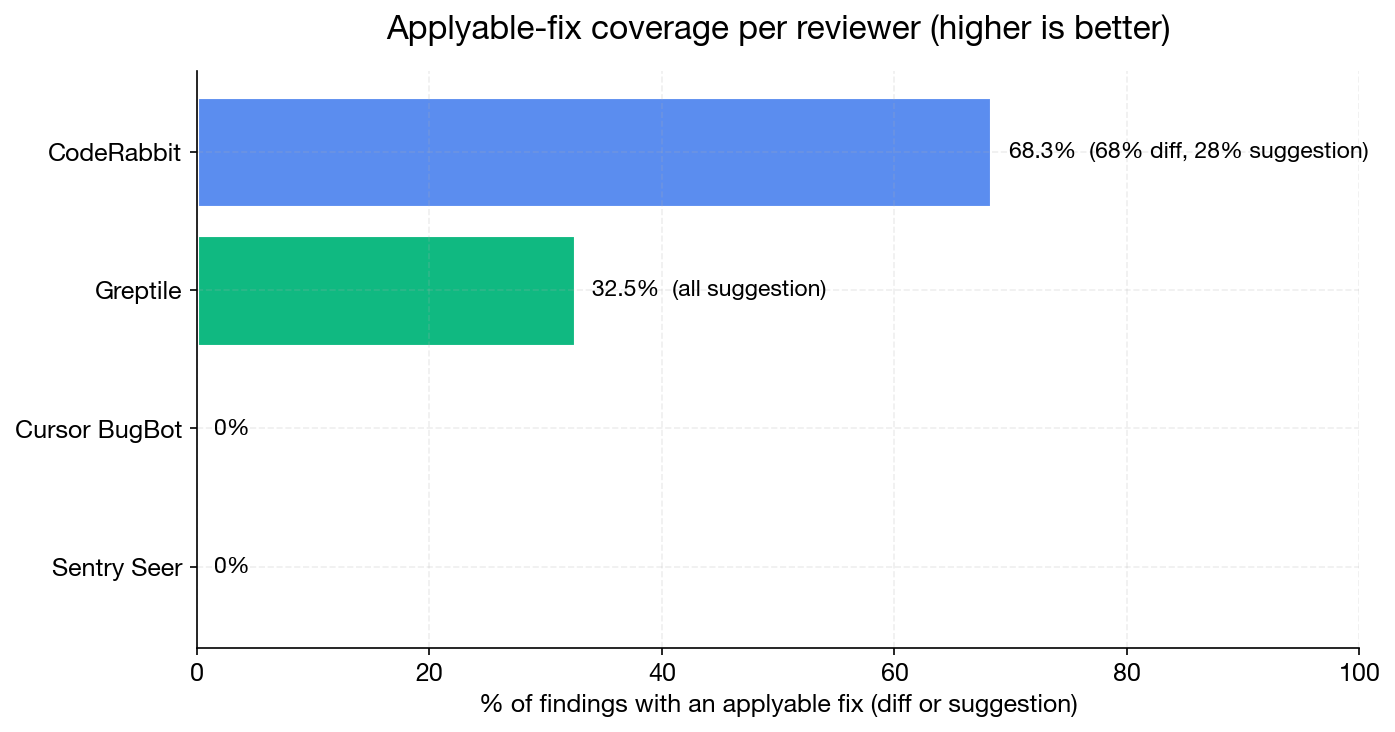
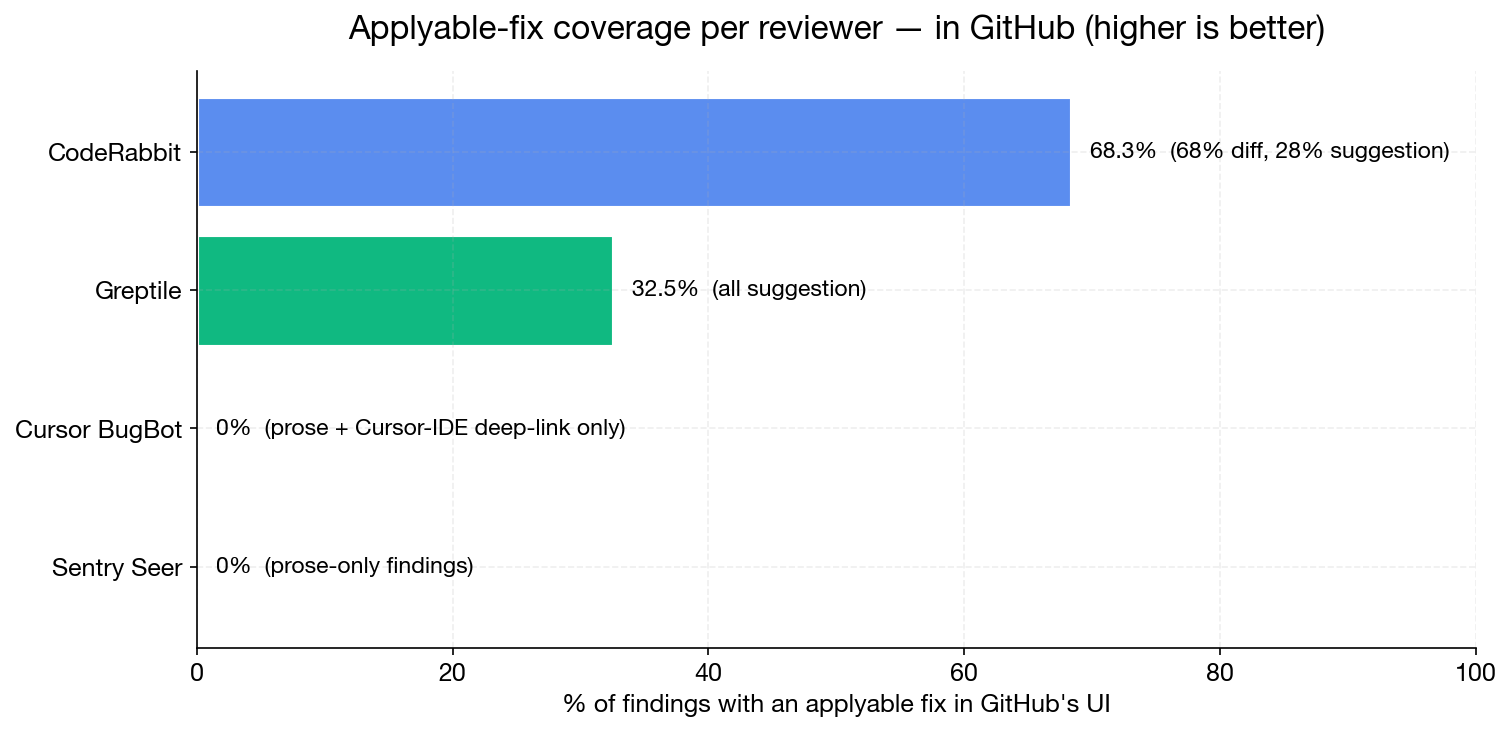
Applyable-fix chart: clarify that 0% reviewers have non-GitHub fix mechanisms
The previous chart showed Seer and Cursor BugBot at 0% applyable-fix
coverage without context, which read as 'these reviewers have no fix
mechanism at all.' That's not quite right:

- Seer is genuinely prose-only — no diffs, no suggestions, no deep-links.
- Cursor BugBot ships a 'Fix In Cursor' deep-link button in every
  finding body. The fix is one-click — but only inside the Cursor IDE.
  From GitHub's UI alone, you see prose only.

Updated:
- Chart title: 'in GitHub' (clarifies the scope)
- X-axis label: 'in GitHub's UI'
- 0%-row annotations now explain the actual fix mechanism per reviewer
- Cursor BugBot row reads: '0%  (prose + Cursor-IDE deep-link only)'
- Sentry Seer row reads: '0%  (prose-only findings)'

This is more honest about what the chart measures (in-GitHub coverage)
without overstating Seer/BugBot's gap from the others.

diff --git a/gen_charts.py b/gen_charts.py
@@ -149,12 +149,18 @@ def chart_applyable_fix(conn: sqlite3.Connection, out_path: Path) -> None:
     values = [pct[r][0] for r in ordered]
     colors = [COLORS[r] for r in ordered]
 
-    # Build per-bar annotation showing the breakdown
+    # Build per-bar annotation showing the breakdown. The two 0% reviewers
+    # (Seer, Cursor BugBot) need explanatory annotations or the chart reads
+    # as "missing data" rather than "this format isn't supported."
+    ZERO_NOTES = {
+        "seer":   "0%  (prose-only findings)",
+        "cursor": "0%  (prose + Cursor-IDE deep-link only)",
+    }
     annotations = []
     for r in ordered:
         e, d, s = pct[r]
         if e == 0:
-            annotations.append("0%")
+            annotations.append(ZERO_NOTES.get(r, "0%"))
         elif d > 0 and s > 0:
             annotations.append(f"{e:.1f}%  ({d:.0f}% diff, {s:.0f}% suggestion)")
         elif d > 0:
@@ -162,10 +168,10 @@ def chart_applyable_fix(conn: sqlite3.Connection, out_path: Path) -> None:
         else:
             annotations.append(f"{e:.1f}%  (all suggestion)")
 
-    fig, ax = plt.subplots(figsize=(10, 5))
+    fig, ax = plt.subplots(figsize=(11, 5))
     bars = ax.barh(labels, values, color=colors, edgecolor="white", linewidth=1.5)
-    ax.set_xlabel("% of findings with an applyable fix (diff or suggestion)")
-    ax.set_title("Applyable-fix coverage per reviewer (higher is better)", pad=15)
+    ax.set_xlabel("% of findings with an applyable fix in GitHub's UI")
+    ax.set_title("Applyable-fix coverage per reviewer — in GitHub (higher is better)", pad=15)
     ax.set_xlim(0, 100)
 
     for bar, ann in zip(bars, annotations):